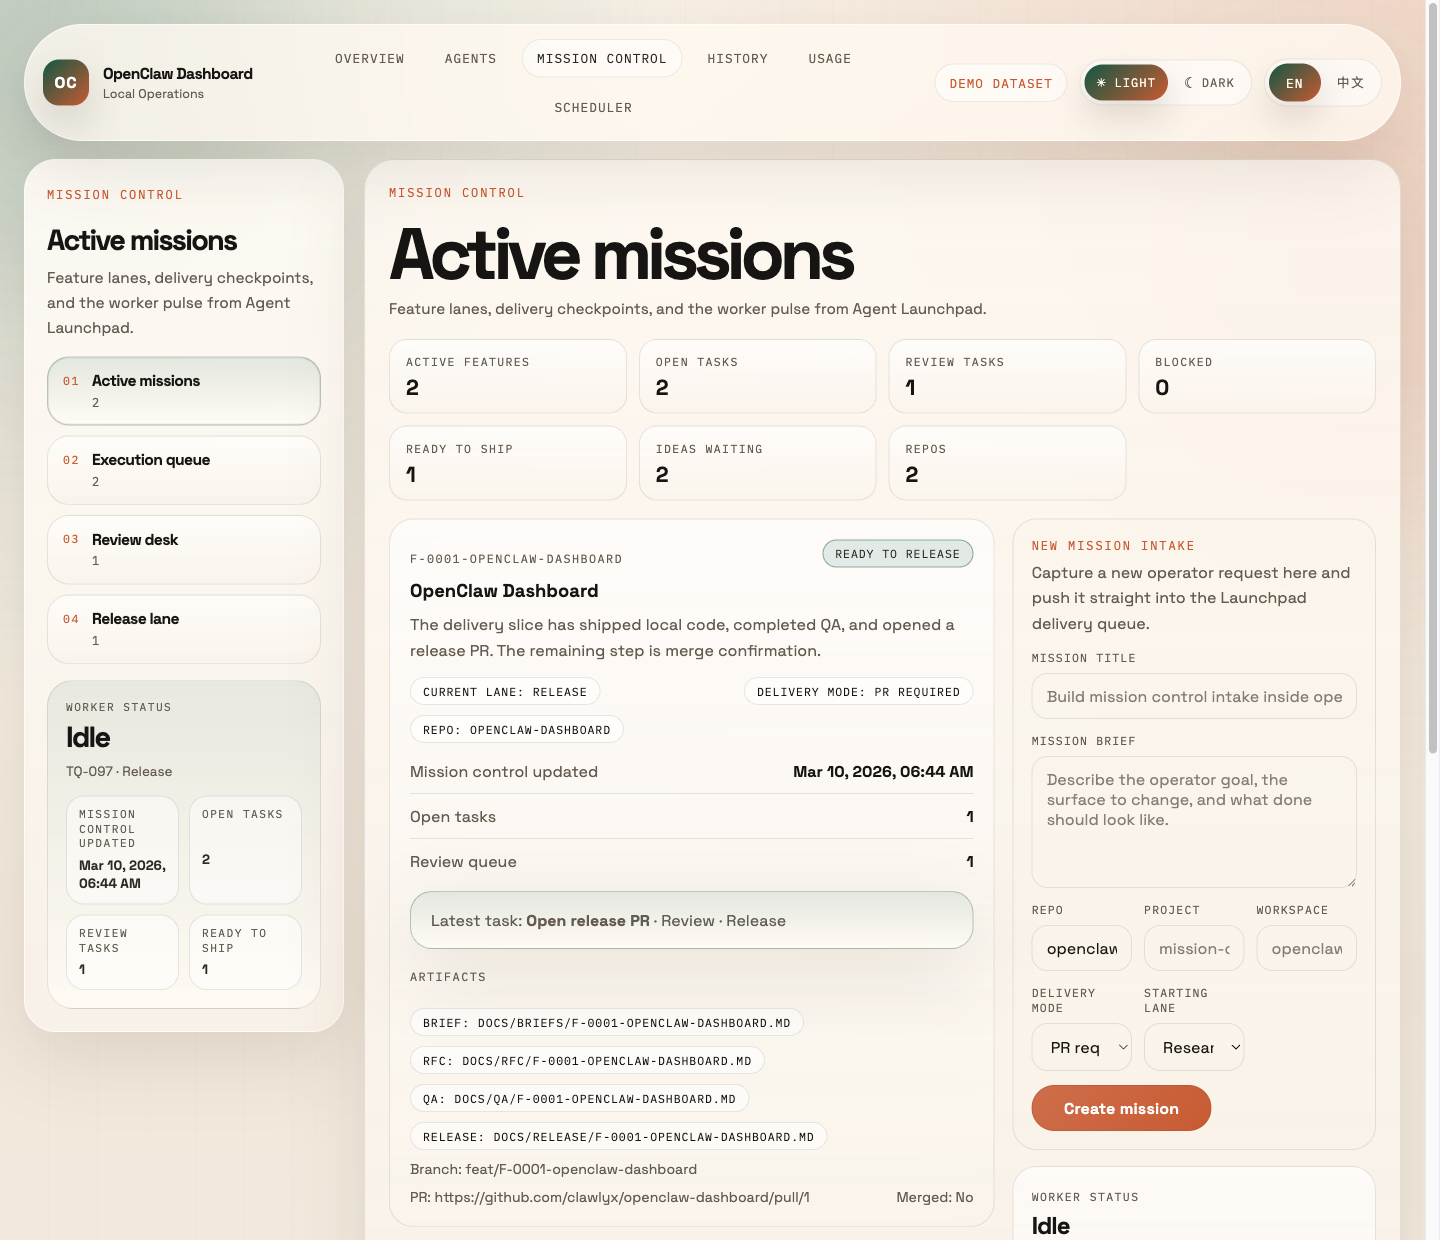
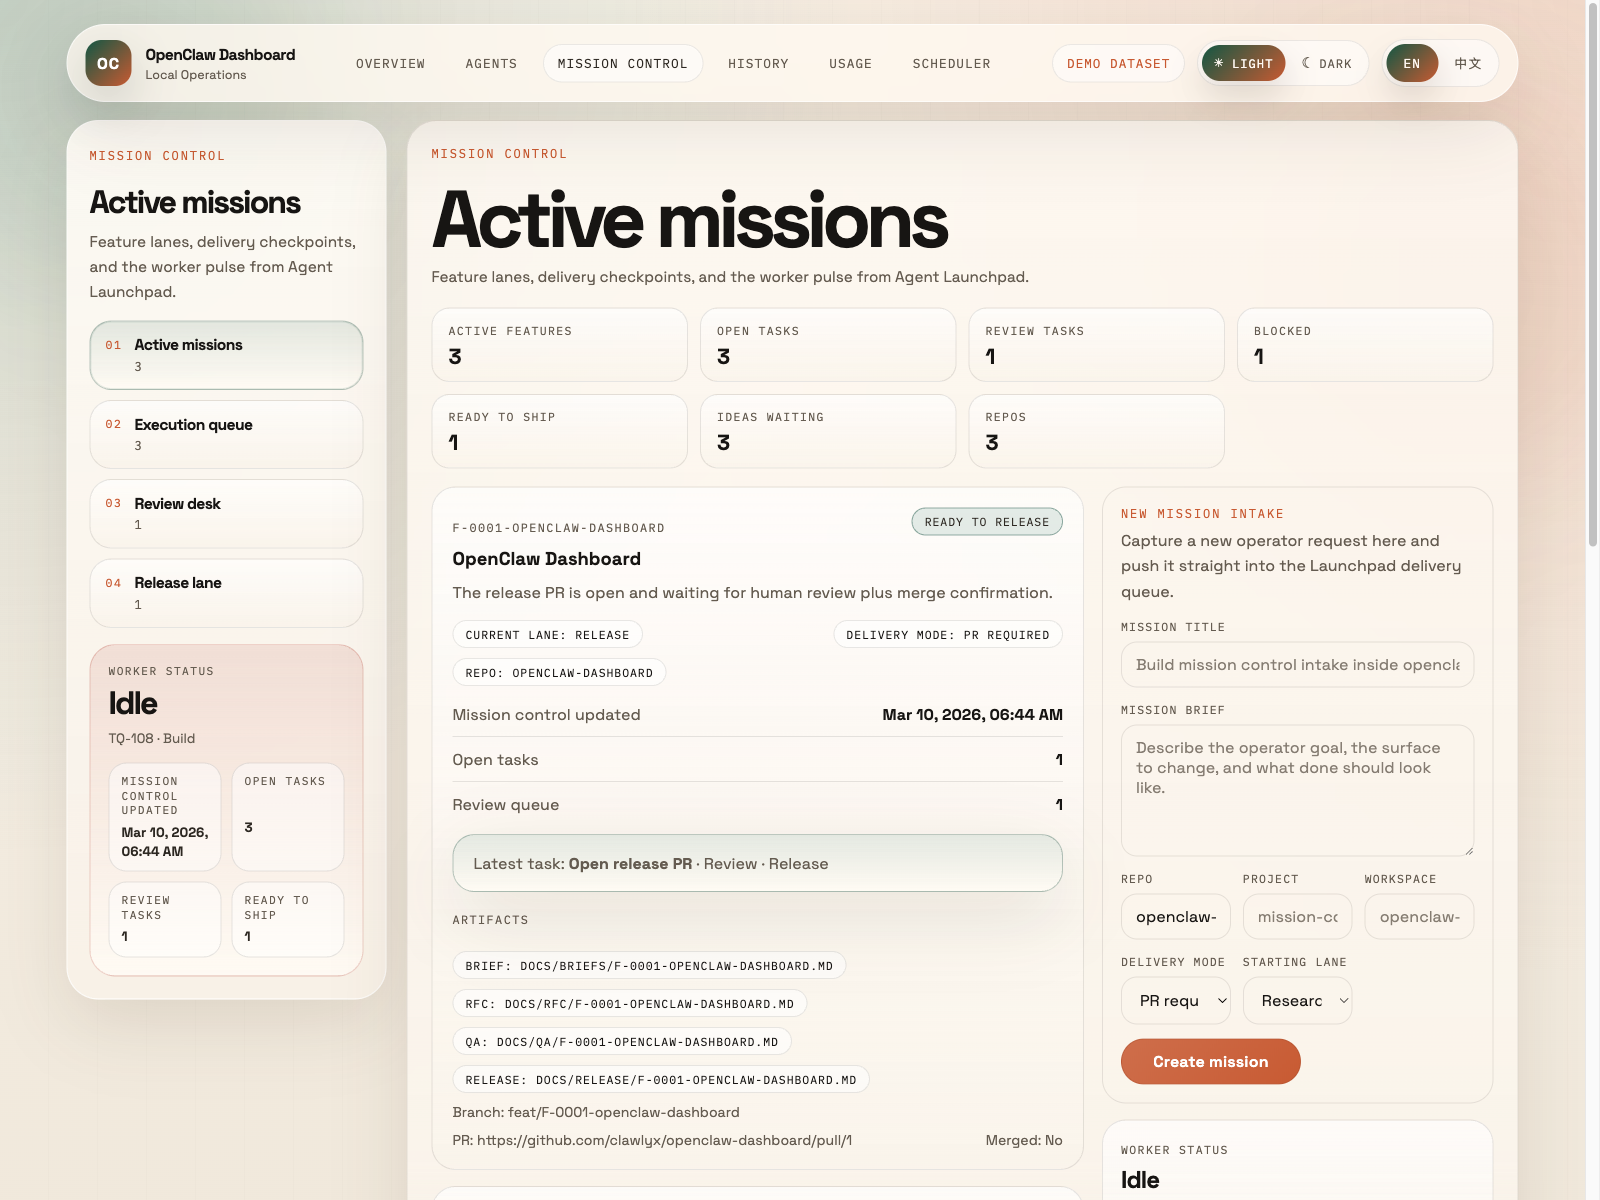
chore(release): prepare 1.2.0 ownership release

diff --git a/lib/mission-control.ts b/lib/mission-control.ts
@@ -192,6 +192,16 @@ const SAMPLE_STATE: Required<LaunchpadStateRecord> = {
       repo: "family-claw",
       featureId: "F-0002-family-claw-concierge",
       updatedAt: "2026-03-10T09:42:00.000Z"
+    },
+    {
+      ideaId: "IDEA-003",
+      title: "Agent Workflow schema sync",
+      status: "clarifying",
+      project: "agent-workflow",
+      workspace: "agent-workflow",
+      repo: "agent-workflow",
+      featureId: "F-0003-agent-workflow-schema",
+      updatedAt: "2026-03-10T07:20:00.000Z"
     }
   ],
   features: [
@@ -254,9 +264,7 @@ const SAMPLE_STATE: Required<LaunchpadStateRecord> = {
           updatedAt: "2026-03-10T10:44:00.000Z",
           summary: "PR is open and waiting for a merge decision.",
           nextPlannedStep: "Merge the release PR and publish the release note once screenshots are approved.",
-          waitingOn: "human-merge",
-          ownerAgentId: "release-agent",
-          ownerRoomId: "release"
+          waitingOn: "human-merge"
         }
       ],
       history: [{ at: "2026-03-10T10:44:00.000Z" }]
@@ -301,6 +309,48 @@ const SAMPLE_STATE: Required<LaunchpadStateRecord> = {
         }
       ],
       history: [{ at: "2026-03-10T10:12:00.000Z" }]
+    },
+    {
+      featureId: "F-0003-agent-workflow-schema",
+      title: "Agent Workflow schema sync",
+      status: "building",
+      project: "agent-workflow",
+      workspace: "agent-workflow",
+      repo: "agent-workflow",
+      deliveryMode: "push-required",
+      linkedIdeaId: "IDEA-003",
+      currentLane: "build",
+      artifactRoot: "/Users/clawlyx/Documents/GitHub/agent-workflow/docs",
+      artifacts: {
+        brief: "docs/briefs/F-0003-agent-workflow-schema.md",
+        rfc: "docs/rfc/F-0003-agent-workflow-schema.md",
+        qa: "docs/qa/F-0003-agent-workflow-schema.md",
+        release: "docs/release/F-0003-agent-workflow-schema.md"
+      },
+      summary: "Schema alignment is blocked on the shared workflow contract.",
+      delivery: {
+        branch: "feat/F-0003-agent-workflow-schema",
+        prUrl: null,
+        prMerged: false,
+        repoRoot: "/Users/clawlyx/Documents/GitHub/agent-workflow"
+      },
+      tasks: [
+        {
+          tqId: "TQ-108",
+          title: "Unify workflow ownership schema",
+          lane: "build",
+          status: "blocked",
+          startedAt: "2026-03-09T14:05:00.000Z",
+          lastWorkedAt: "2026-03-09T16:25:00.000Z",
+          updatedAt: "2026-03-09T16:25:00.000Z",
+          summary: "Waiting for a final contract that keeps workstation ownership and workflow specs aligned.",
+          nextPlannedStep: "Resume implementation once the shared ownership fields are approved.",
+          blockedReason: "Waiting for the shared ownership contract to land in agent-workflow.",
+          ownerAgentId: "coding-agent",
+          ownerRoomId: "build"
+        }
+      ],
+      history: [{ at: "2026-03-09T16:25:00.000Z" }]
     }
   ]
 };
@@ -308,15 +358,15 @@ const SAMPLE_STATE: Required<LaunchpadStateRecord> = {
 const SAMPLE_HEARTBEAT: WorkerHeartbeatRecord = {
   at: "2026-03-10T07:11:00.021Z",
   pollMs: 15000,
-  activeFeatures: 2,
+  activeFeatures: 3,
   readyTasks: 0,
   reviewTasks: 1,
-  blockedTasks: 0,
+  blockedTasks: 1,
   latestTask: {
-    tqId: "TQ-097",
-    featureId: "F-0001-openclaw-dashboard",
-    lane: "release",
-    status: "review"
+    tqId: "TQ-108",
+    featureId: "F-0003-agent-workflow-schema",
+    lane: "build",
+    status: "blocked"
   }
 };
 

diff --git a/README.md b/README.md
@@ -26,9 +26,12 @@ OpenClaw workstation with dedicated Agents, Mission Control, Overview, History, 
 ## Features
 
 - top-level dashboard shell with a primary menu, contextual left navigation, and single-panel rendering
-- dedicated `Agents` workspace with room-based navigation and live Mission Control join-up
+- dedicated `Agents` workspace with room-based navigation, explicit mission ownership, and live Mission Control join-up
 - `Virtual Office` pixel office scene for active, waiting, blocked, and idle agents
 - room-level mission ownership inside the office view, including inline mission queue cards that can focus the owning room
+- shared room or agent detail drawer with task path, handoffs, and linked artifacts
+- inline office actions for advancing, blocking, or resetting the focused Mission Control task
+- a pressure rail that surfaces stale review, blocked-too-long, waiting-on-human, inferred ownership, and overloaded rooms
 - top-level `Mission Control` workspace for mission intake, queue progress, review pressure, and release readiness
 - `Office Floor`, `Queues & handoffs`, and `Recent activity` panels for simplified agent operations visibility
 - latest usage report summary
@@ -47,10 +50,11 @@ The repo is intentionally broader than a single usage report skill. The goal is 
 
 ## How it works
 
-The app supports two data modes:
+The app supports separate source paths for the two live datasets:
 
-- live mode: reads from `OPENCLAW_HOME` or `~/.openclaw`
-- demo mode: if neither path exists, it falls back to `demo/openclaw-home`
+- agents + usage + scheduler: reads from `OPENCLAW_HOME` or `~/.openclaw`
+- mission control: reads from `AGENT_LAUNCHPAD_HOME` or `~/.agent-launchpad`
+- demo mode: if either live path is missing, that surface falls back to bundled demo data
 - local frontend binding: `pnpm dev` / `pnpm start` read `DASHBOARD_URL` from `.env` or `.env.local`
 
 This makes the repo publishable as-is while still preferring real local data on machines that
@@ -101,11 +105,13 @@ DASHBOARD_URL=http://localhost:3000
 
 Then just run `pnpm dev` or `pnpm start`. The scripts will bind Next.js to that host and port. You can keep `.env.example` on `3000` and override your own local `.env` to `3200` or any other free port.
 
-If you want to force the demo dataset for screenshots, previews, or CI, put this in `.env` / `.env.local` or use it inline:
+If you want to force the fully bundled demo dataset for screenshots, previews, or CI, put this in `.env` / `.env.local` or use it inline:
 
 ```bash
-OPENCLAW_HOME=demo/openclaw-home pnpm dev
+OPENCLAW_HOME=demo/openclaw-home AGENT_LAUNCHPAD_HOME=/tmp/openclaw-dashboard-demo pnpm dev
 ```
+
+The `AGENT_LAUNCHPAD_HOME` path above can point to a missing directory. When no Launchpad state file exists there, Mission Control falls back to the bundled sample state instead of your real local queue.
 
 ## Validation
 
@@ -127,7 +133,7 @@ request.
 
 ## Current Surfaces
 
-- `Agents`: virtual office, room mission ownership, inline mission queue, office floor, queues and handoffs, recent activity
+- `Agents`: virtual office, room mission ownership, owner detail drawer, inline office actions, pressure rail, office floor, queues and handoffs, recent activity
 - `Mission Control`: active missions, execution queue, review desk, release lane, and mission intake
 - `Overview`: latest summary cards and high-signal operational state
 - `History`: usage history trends and chart views

diff --git a/README.zh-CN.md b/README.zh-CN.md
@@ -26,9 +26,12 @@
 ## 功能特性
 
 - 顶部主菜单 + 左侧上下文导航 + 单面板渲染的 dashboard shell
-- 独立的 `Agents` 工作区，带按房间组织的二级导航和 Mission Control 联动
+- 独立的 `Agents` 工作区，带按房间组织的二级导航、显式任务归属和 Mission Control 联动
 - 用像素风 `Virtual Office` 直观展示 active / waiting / blocked / idle agents
 - 在办公室视图里直接展示房间级任务归属、内联 mission queue，以及点击任务卡后聚焦归属房间
+- 共享的房间 / agent 详情抽屉，可查看任务路径、交接记录和关联交付物
+- 可直接在办公室抽屉内执行 Mission Control 任务动作
+- 一条压力轨道，用来浮出老化评审、长期阻塞、等待人工、推断归属和房间过载
 - 顶级 `Mission Control` 工作区，用于任务 intake、队列推进、评审压力和发布就绪状态
 - `Office Floor`、`Queues & handoffs`、`Recent activity` 三个补充面板，用于快速理解 agent 运转状态
 - 最新 usage 报告摘要
@@ -47,10 +50,11 @@
 
 ## 工作方式
 
-应用支持两种数据模式：
+应用对两类实时数据分别读取：
 
-- 实时模式：从 `OPENCLAW_HOME` 或 `~/.openclaw` 读取
-- 演示模式：如果这两个路径都不存在，则回退到 `demo/openclaw-home`
+- agents + usage + scheduler：从 `OPENCLAW_HOME` 或 `~/.openclaw` 读取
+- mission control：从 `AGENT_LAUNCHPAD_HOME` 或 `~/.agent-launchpad` 读取
+- 演示模式：任一实时路径缺失时，对应页面会回退到内置 demo 数据
 - 本地前端绑定：`pnpm dev` / `pnpm start` 会从 `.env` 或 `.env.local` 读取 `DASHBOARD_URL`
 
 这样仓库可以直接公开发布，同时在已经安装 OpenClaw 的机器上仍然优先使用真实本地数据。
@@ -96,11 +100,13 @@ DASHBOARD_URL=http://localhost:3000
 
 然后直接运行 `pnpm dev` 或 `pnpm start`。脚本会把 Next.js 绑定到这个 host 和 port。你可以把 `.env.example` 保持在 `3000`，再把你自己的本地 `.env` 覆盖成 `3200` 或其他空闲端口。
 
-如果你想在截图、预览或 CI 中强制使用 demo 数据，可以把这行放进 `.env` / `.env.local`，或者直接内联运行：
+如果你想在截图、预览或 CI 中强制使用完整的内置 demo 数据，可以把这行放进 `.env` / `.env.local`，或者直接内联运行：
 
 ```bash
-OPENCLAW_HOME=demo/openclaw-home pnpm dev
+OPENCLAW_HOME=demo/openclaw-home AGENT_LAUNCHPAD_HOME=/tmp/openclaw-dashboard-demo pnpm dev
 ```
+
+上面的 `AGENT_LAUNCHPAD_HOME` 可以指向一个不存在的目录。只要这个目录下没有 Launchpad 状态文件，Mission Control 就会回退到仓库内置的 sample state，而不会读取你本机真实队列。
 
 ## 验证
 
@@ -120,7 +126,7 @@ pnpm check
 
 ## 当前页面
 
-- `Agents`：Virtual Office、房间级任务归属、内联 mission queue、Office Floor、Queues & handoffs、Recent activity
+- `Agents`：Virtual Office、房间级任务归属、详情抽屉、办公室动作、压力轨道、Office Floor、Queues & handoffs、Recent activity
 - `Mission Control`：Active missions、Execution queue、Review desk、Release lane、Mission intake
 - `Overview`：最新摘要卡片和高优先级运行状态
 - `History`：usage 历史趋势和图表视图

diff --git a/runbooks/openclaw-dashboard-1-2-0-release-candidate.md b/runbooks/openclaw-dashboard-1-2-0-release-candidate.md
@@ -1,0 +1,58 @@
+# OpenClaw Dashboard 1.2.0 Release Candidate
+
+## Theme
+
+`Explicit ownership x office pressure`
+
+## Why 1.2.0
+
+- `1.1.0` connected the office view to Mission Control at the room level.
+- `1.2.0` makes that join-up explicit and operator-ready:
+  - agents and tasks now point at each other directly
+  - the office drawer can show the real task path and linked artifacts
+  - common Mission Control actions are available from the office surface
+  - pressure signals now tell the operator what needs attention next
+
+## Delivered in this branch
+
+- explicit ownership/task references in the snapshot contract
+- room and agent detail drawers with current mission, handoffs, and artifact evidence
+- inline office actions that reuse Mission Control transitions
+- a pressure rail for stale review, blocked-too-long, waiting-on-human, inferred ownership, and room overload
+- refreshed bundled demo data and public screenshots aligned to the `1.2.0` workstation milestone
+
+## Acceptance evidence
+
+- `pnpm typecheck`
+- `pnpm lint`
+- `pnpm build`
+- browser-verified `Agents -> Virtual office` against the bundled demo dataset
+- browser-verified pressure rail rendering stale review, blocked-too-long, waiting-on-human, and inferred ownership
+- browser-verified room-level pressure cues in the office room grid
+- browser-verified pressure-card click routing into the owning room or task drawer
+- browser-verified refreshed README/social screenshots captured from bundled demo data only
+
+## Preconditions for reviewer
+
+- start the app locally with the bundled demo dataset:
+
+```bash
+OPENCLAW_HOME=demo/openclaw-home AGENT_LAUNCHPAD_HOME=/tmp/openclaw-dashboard-demo pnpm start
+```
+
+- open `/?view=agents&panel=virtual&lang=en`
+- verify the header shows `Demo dataset`
+
+## Merge expectation
+
+Ship this as `1.2.0` when branch review confirms:
+
+- the `Agents` workspace answers what needs attention next without leaving the office
+- drawer ownership and mission path stay consistent with Mission Control task truth
+- office actions do not diverge from Mission Control transitions
+- public screenshots and README copy reflect the actual demo state
+
+## Rollback / recovery
+
+- revert the `1.2.0` merge commit if explicit ownership or pressure cues create incorrect operator routing
+- fallback behavior is the `1.1.0` room-level join-up without the new pressure-signal surface

diff --git a/CHANGELOG.md b/CHANGELOG.md
@@ -6,6 +6,26 @@ The format is based on Keep a Changelog, and this project follows Semantic Versi
 
 ## [Unreleased]
 
+## [1.2.0] - 2026-03-14
+
+### Added
+
+- Explicit mission ownership/task references across the workstation snapshot so agents and tasks can point at each other directly.
+- A shared room or agent detail drawer in the `Agents` workspace with current mission, handoff history, and artifact evidence.
+- Inline office actions that reuse Mission Control transitions from the office drawer.
+- A mission-aware pressure rail covering stale review, blocked-too-long, waiting-on-human, inferred ownership, and overloaded rooms.
+
+### Changed
+
+- Promoted the `Agents` workspace from a joined office view into the workstation's operator-priority surface.
+- Refreshed the bundled demo data and public screenshots so the `1.2.0` preview shows explicit ownership and pressure cues safely.
+- Bumped the app version to `1.2.0` for the explicit-ownership milestone.
+
+### Fixed
+
+- Anchored pressure age calculations to the stable snapshot timestamp so the office UI stays deterministic across hydration.
+- Prioritized mission queue cards by active pressure so the hottest work surfaces ahead of quieter tasks.
+
 ## [1.1.0] - 2026-03-14
 
 ### Added
